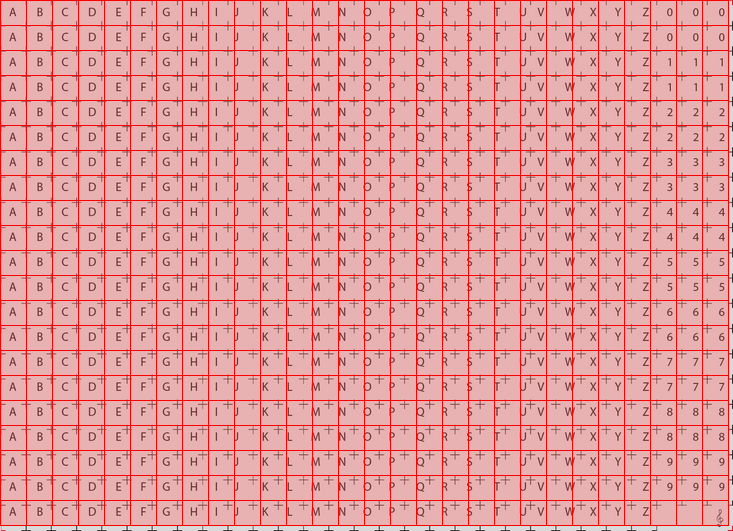
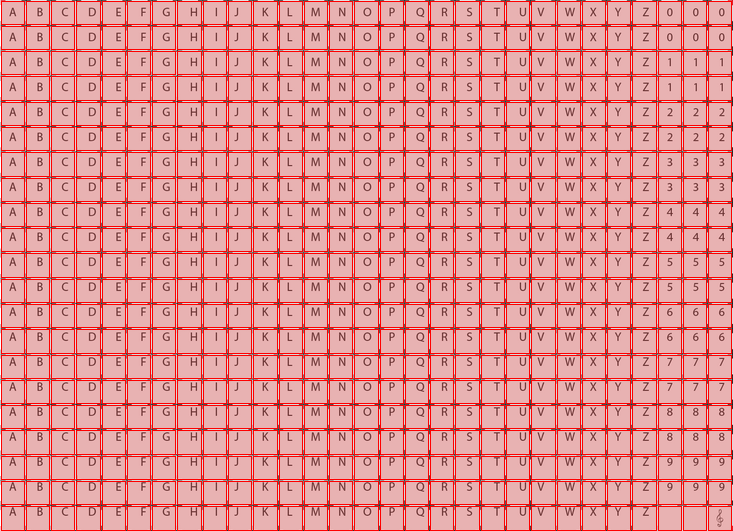
Ajout de l'offset pour la grille, suppression des cellules par taille

Changed region(s): [[0.0, 0.0, 1.0, 1.0]]

diff --git a/qtHandles.py b/qtHandles.py
@@ -248,26 +248,27 @@ class GridWindow(QMainWindow):
         cells_lb = QLabel("Cells")
         self.tools_layout.addWidget(cells_lb)
 
-        cells_size_lb = QLabel("Size : ")
-        self.tools_layout.addWidget(cells_size_lb)
 
-        size_layout = QHBoxLayout()
-        x_lb = QLabel("X : ")
-        size_layout.addWidget(x_lb)
+        cells_qty_lb = QLabel("Quantity : ")
+        self.tools_layout.addWidget(cells_qty_lb)
 
-        x_edit = QLineEdit(self)
-        x_edit.textChanged.connect(self.onSizeXEdit)
-        x_edit.editingFinished.connect(self.onCellModFinished)
-        size_layout.addWidget(x_edit)
+        qty_layout = QHBoxLayout()
+        qty_x_lb = QLabel("X : ")
+        qty_layout.addWidget(qty_x_lb)
+
+        qty_x_edit = QLineEdit(self)
+        qty_x_edit.textChanged.connect(self.onQtyXEdit)
+        qty_x_edit.editingFinished.connect(self.onCellModFinished)
+        qty_layout.addWidget(qty_x_edit)
         
-        y_lb = QLabel("Y : ")
-        size_layout.addWidget(y_lb)
+        qty_y_lb = QLabel("Y : ")
+        qty_layout.addWidget(qty_y_lb)
 
-        y_edit = QLineEdit(self)
-        size_layout.addWidget(y_edit)
-        y_edit.textChanged.connect(self.onSizeYEdit)
-        y_edit.editingFinished.connect(self.onCellModFinished)
-        self.tools_layout.addLayout(size_layout)
+        qty_y_edit = QLineEdit(self)
+        qty_layout.addWidget(qty_y_edit)
+        qty_y_edit.textChanged.connect(self.onQtyYEdit)
+        qty_y_edit.editingFinished.connect(self.onCellModFinished)
+        self.tools_layout.addLayout(qty_layout)
 
         cells_offset_lb = QLabel("Offset : ")
         self.tools_layout.addWidget(cells_offset_lb)
@@ -292,6 +293,8 @@ class GridWindow(QMainWindow):
         offset_layout.addWidget(offset_y_edit)
 
         self.tools_layout.addLayout(offset_layout)
+
+
 
         full_cell_lb = QLabel("Full cell : ")
         self.tools_layout.addWidget(full_cell_lb)
@@ -414,25 +417,21 @@ class GridWindow(QMainWindow):
 
 
     ############CELLULES############
-    def onSizeXEdit(self, text):
+    def onQtyXEdit(self, text):
         if text == '':
             val = 0
         else:
             val = int(text)
 
-        l = list(self.size_cell)
-        l[0] = val
-        self.size_cell = tuple(l)
+        self.cell_qty_x = val
 
-    def onSizeYEdit(self, text):
+    def onQtyYEdit(self, text):
         if text == '':
             val = 0
         else:
             val = int(text)
 
-        l = list(self.size_cell)
-        l[1] = val
-        self.size_cell = tuple(l) 
+        self.cell_qty_y = val
 
     def onOffsetXEdit(self, text):
         if text == '':
@@ -442,7 +441,7 @@ class GridWindow(QMainWindow):
 
         l = list(self.offset_cell)
         l[0] = val
-        self.offset_cell = tuple(l) 
+        self.offset_cell = tuple(l)
 
     def onOffsetYEdit(self, text):
         if text == '':
@@ -453,34 +452,30 @@ class GridWindow(QMainWindow):
         l = list(self.offset_cell)
         l[1] = val
         self.offset_cell = tuple(l) 
-        
     def onFullCellChanged(self, button):
         self.full_cell = button.isChecked()
         self.onCellModFinished()
 
     def onCellModFinished(self):
-        self.cell_qty_x, self.cell_qty_y = cropHandles.getCellsQty(self.image, self.size_cell, self.offset_cell, self.full_cell)
+        #+self.cell_qty_x, self.cell_qty_y = cropHandles.getCellsQty(self.image, self.size_cell, self.offset_cell, self.full_cell)
         print(self.cell_qty_x, self.cell_qty_y)
         self.generateCellsRects()
 
 
     def generateCellsRects(self):
-                #shape = [(x0, y0), (x1, y1)]
-
-
+        pos_cell = ((self.image.width / self.cell_qty_x), (self.image.height / self.cell_qty_y))
+        self.size_cell = ((self.image.width / self.cell_qty_x - self.offset_cell[0]*2), (self.image.height / self.cell_qty_y - self.offset_cell[1]*2))
         cells_img = Image.new('RGBA', [self.image_mod.width, self.image_mod.height])
         cells_rects = ImageDraw.Draw(cells_img)
 
         for j in range (0, self.cell_qty_y):
             for i in range(0, self.cell_qty_x):
-                x0 = i * self.size_cell[0] + i * self.offset_cell[0]
-                y0 = j * self.size_cell[1] + j * self.offset_cell[1]
-                x1 = x0 + self.size_cell[0]
-                y1 = y0 + self.size_cell[1]
-                
+                x0 = i * pos_cell[0] + self.offset_cell[0] 
+                y0 = j * pos_cell[1] + self.offset_cell[1] 
+                x1 = x0 + self.size_cell[0] 
+                y1 = y0 + self.size_cell[1] 
                 shape = [(x0, y0), (x1, y1)]
-                cells_rects.rectangle(shape, fill = "#ff000044", outline= "red")
-        
+                cells_rects.rectangle(shape, fill = "#ff000044", outline= "red")    
         cells_img.save('tmp_cells.png')
         self.updateImage()
 
@@ -491,8 +486,6 @@ class GridWindow(QMainWindow):
         workspace_container.setStyleSheet("background-color: rgba(230,230,230,255);")
         self.workspace_layout = QGridLayout(workspace_container)
         self.workspace_layout.setAlignment(Qt.AlignCenter)
-
-
 
         label = QLabel(self)
         pix = QPixmap(self.image_url)
